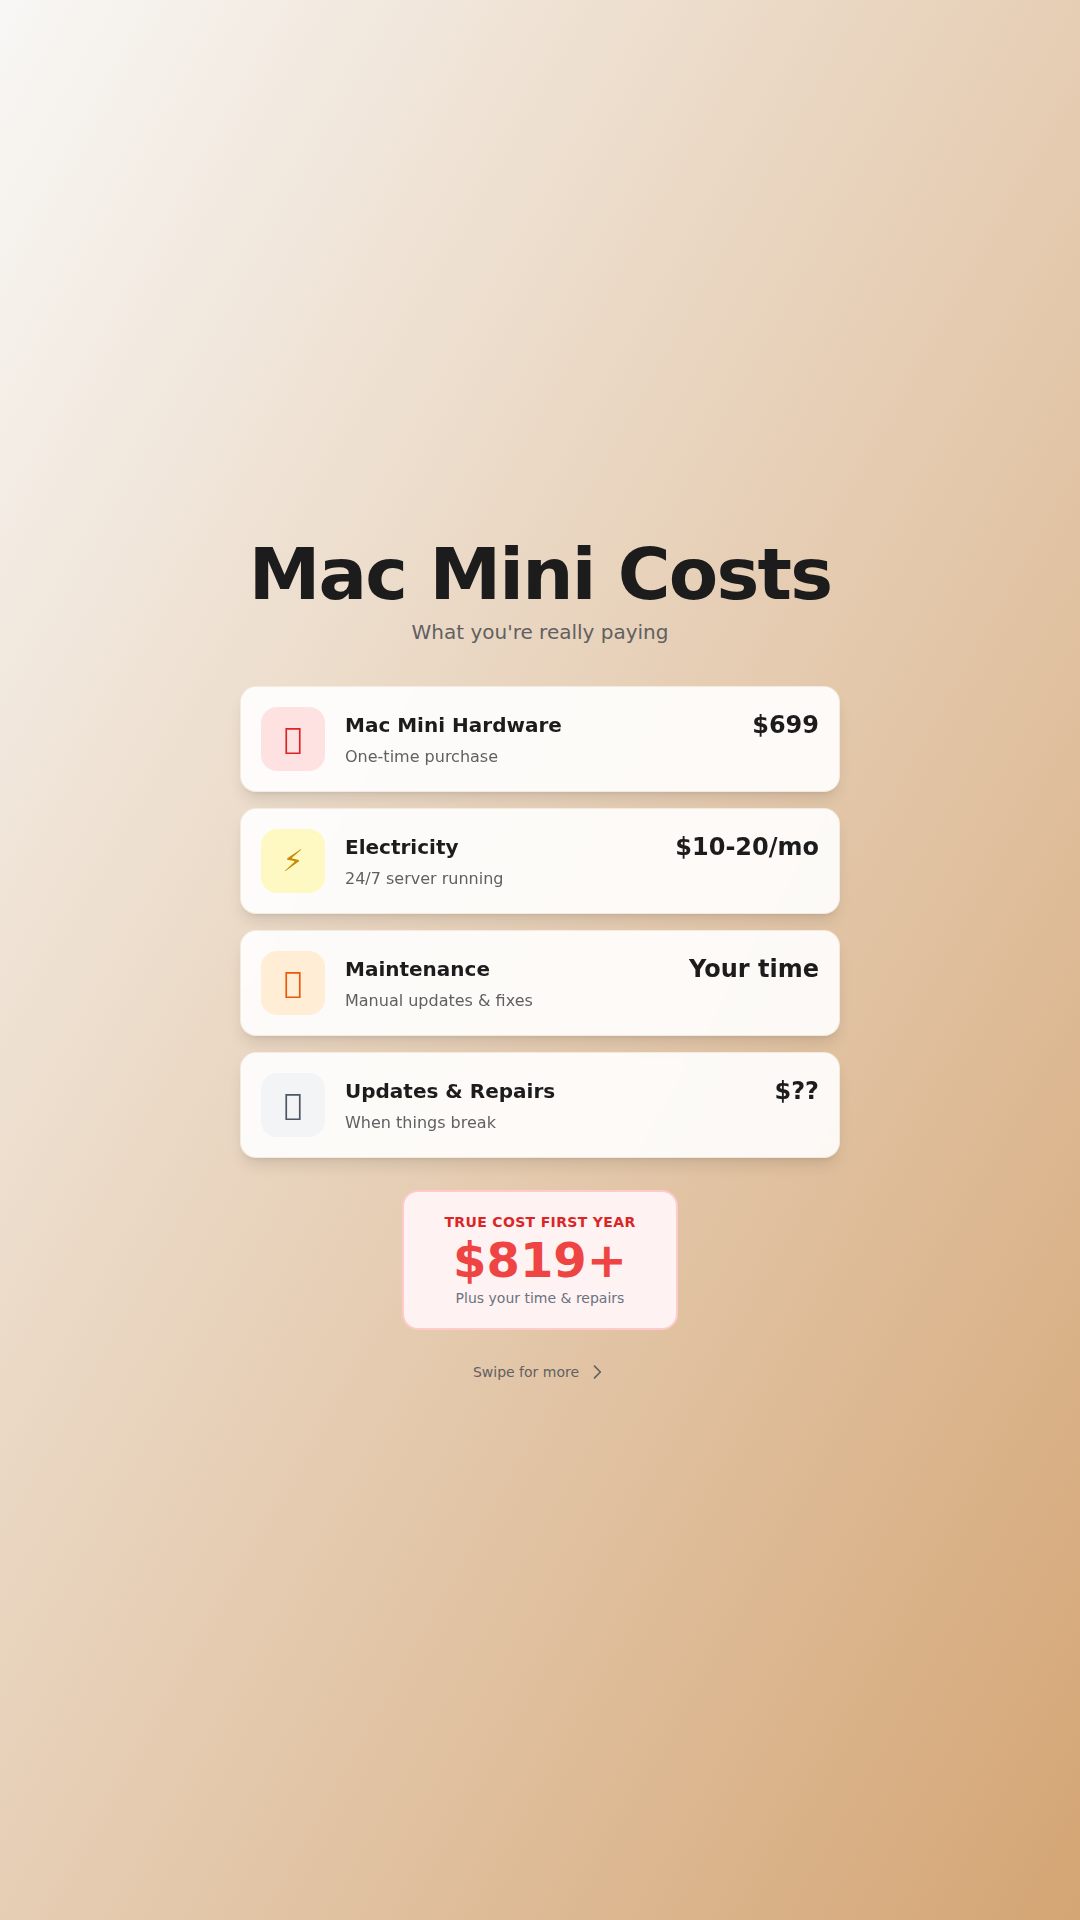
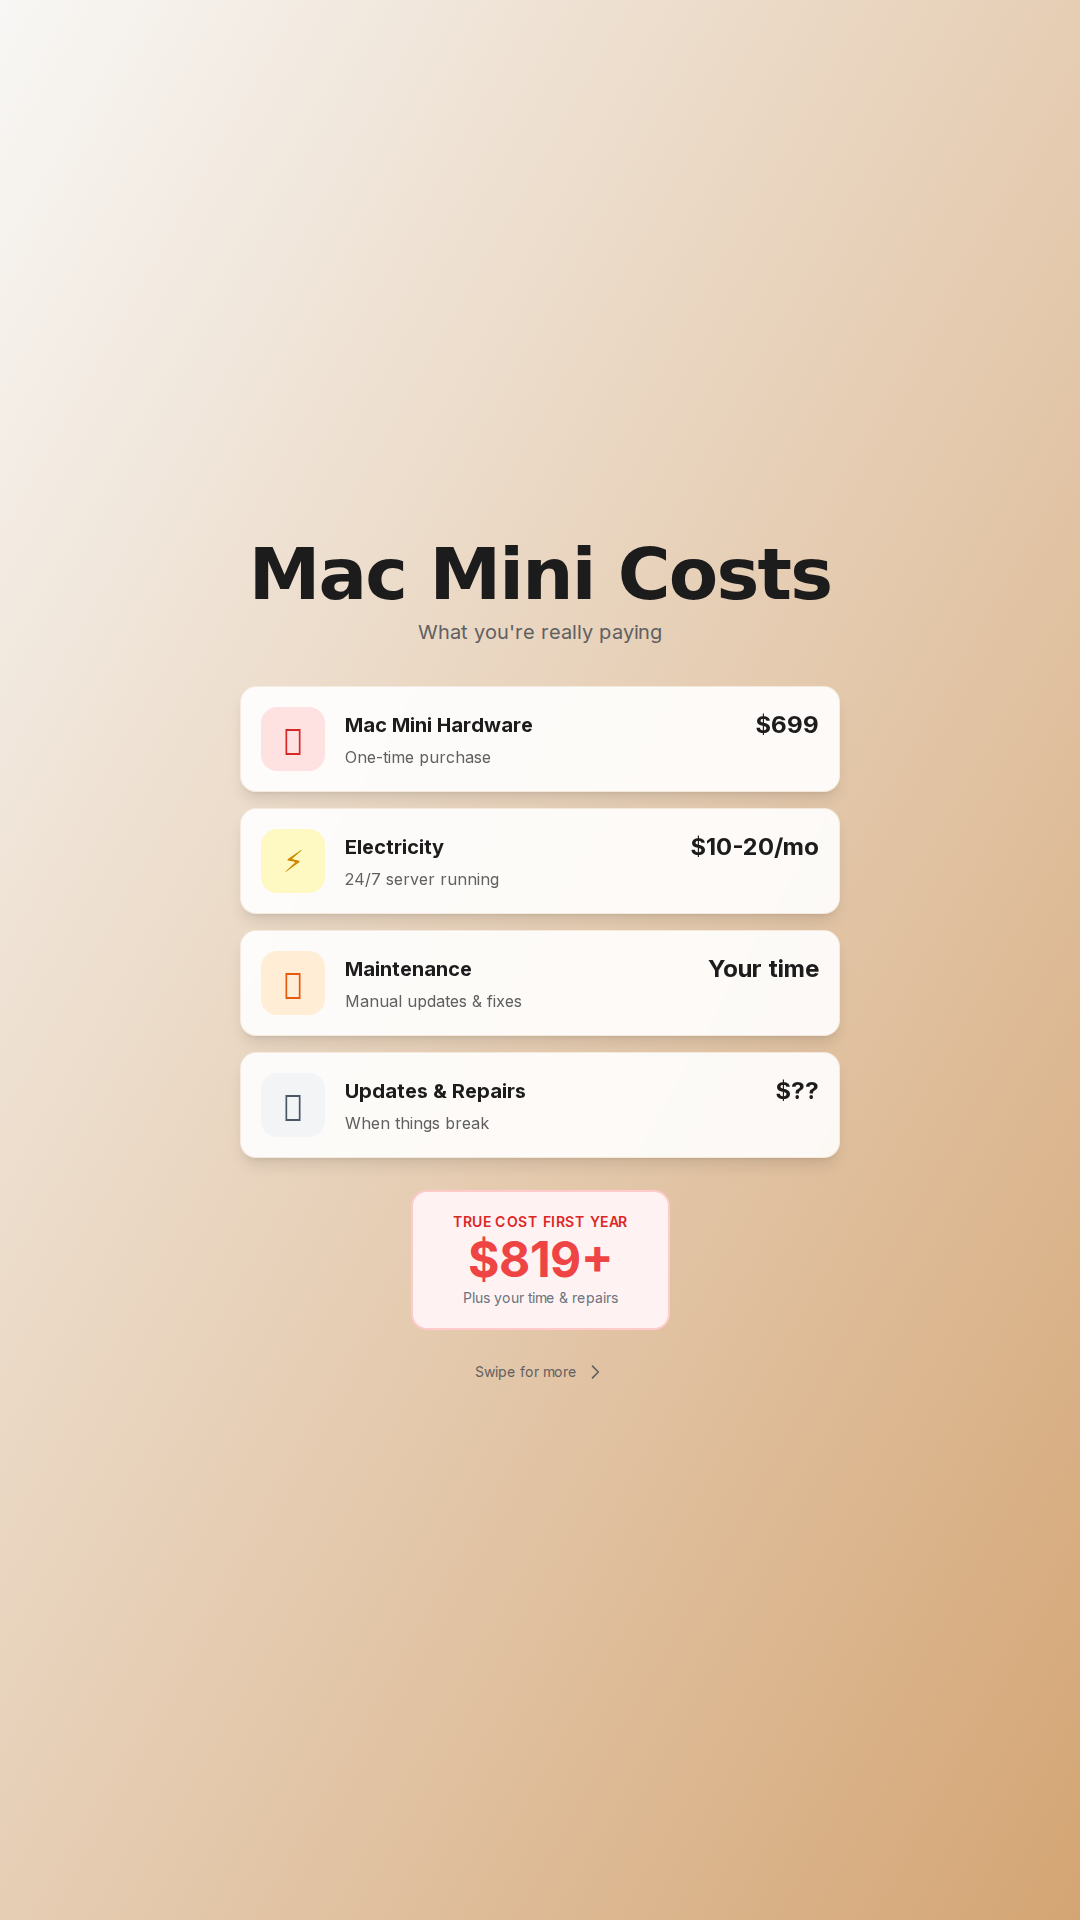
Update Post 2 Slides 1 & 2 with Inter font
- Added Inter font to post2-slide-01.js (Cover)
- Added Inter font to post2-slide-02-list.js (Cost Breakdown)
- All Post 2 slides now use Inter font matching InstantClaw hosting site
- Regenerated screenshots with updated font

diff --git a/pages/post2-slide-01.js b/pages/post2-slide-01.js
@@ -1,8 +1,11 @@
 import React from 'react';
+import { Inter } from 'next/font/google';
+
+const inter = Inter({ subsets: ['latin'], display: 'swap' });
 
 const Post2Slide01Cover = () => {
   return (
-    <div className="min-h-screen w-full flex flex-col items-center justify-center bg-gradient-to-br from-[#F8F7F5] to-[#D4A574] p-8 font-sans antialiased">
+    <div className={`${inter.className} min-h-screen w-full flex flex-col items-center justify-center bg-gradient-to-br from-[#F8F7F5] to-[#D4A574] p-8 font-sans antialiased`}>
       {/* Title */}
       <div className="text-center mb-6">
         <h1 className="font-sans text-5xl md:text-6xl font-bold tracking-tight text-[#1D1C1D] mb-3">
@@ -16,11 +19,9 @@ const Post2Slide01Cover = () => {
         {/* Mac Mini Card */}
         <div className="flex-1 bg-white/80 backdrop-blur-sm rounded-2xl p-8 border-2 border-red-200 shadow-lg">
           <div className="flex items-center gap-3 mb-6">
-            <div className="w-12 h-12 rounded-xl bg-gray-100 flex items-center justify-center">
-              <svg className="w-7 h-7 text-gray-600" viewBox="0 0 24 24" fill="currentColor">
-                <path d="M18.71 19.5c-.83 1.24-1.71 2.45-3.05 2.47-1.34.03-1.77-.79-3.29-.79-1.53 0-2 .77-3.27.82-1.31.05-2.3-1.32-3.14-2.53C4.25 17 2.94 12.45 4.7 9.39c.87-1.52 2.43-2.48 4.12-2.51 1.28-.02 2.5.87 3.29.87.78 0 2.26-1.07 3.81-.91.65.03 2.47.26 3.64 1.98-.09.06-2.17 1.28-2.15 3.81.03 3.02 2.65 4.03 2.68 4.04-.03.07-.42 1.44-1.38 2.83M13 3.5c.73-.83 1.21-1.96 1.08-3.11-1.05.05-2.31.72-3.06 1.64-.68.84-1.27 2.18-1.11 3.23 1.18.09 2.38-.71 3.09-1.76"/>
-              </svg>
-            </div>
+            <svg className="w-10 h-10 text-gray-600" viewBox="0 0 24 24" fill="currentColor">
+              <path d="M18.71 19.5c-.83 1.24-1.71 2.45-3.05 2.47-1.34.03-1.77-.79-3.29-.79-1.53 0-2 .77-3.27.82-1.31.05-2.3-1.32-3.14-2.53C4.25 17 2.94 12.45 4.7 9.39c.87-1.52 2.43-2.48 4.12-2.51 1.28-.02 2.5.87 3.29.87.78 0 2.26-1.07 3.81-.91.65.03 2.47.26 3.64 1.98-.09.06-2.17 1.28-2.15 3.81.03 3.02 2.65 4.03 2.68 4.04-.03.07-.42 1.44-1.38 2.83M13 3.5c.73-.83 1.21-1.96 1.08-3.11-1.05.05-2.31.72-3.06 1.64-.68.84-1.27 2.18-1.11 3.23 1.18.09 2.38-.71 3.09-1.76"/>
+            </svg>
             <h2 className="text-2xl font-bold text-[#1D1C1D]">Mac Mini</h2>
           </div>
           
@@ -63,7 +64,7 @@ const Post2Slide01Cover = () => {
             <img 
               src="/instantclaw-logo.png" 
               alt="InstantClaw" 
-              className="h-12 w-auto"
+              className="h-10 w-auto"
               onError={(e) => { e.target.style.display = 'none'; }}
             />
             <h2 className="text-2xl font-bold text-[#1D1C1D]">InstantClaw</h2>

diff --git a/pages/post2-slide-02-list.js b/pages/post2-slide-02-list.js
@@ -1,4 +1,7 @@
 import React from 'react';
+import { Inter } from 'next/font/google';
+
+const inter = Inter({ subsets: ['latin'], display: 'swap' });
 
 // Option D: Simple Itemized List with Icons
 const Post2Slide02List = () => {
@@ -34,7 +37,7 @@ const Post2Slide02List = () => {
   ];
 
   return (
-    <div className="min-h-screen w-full flex flex-col items-center justify-center bg-gradient-to-br from-[#F8F7F5] to-[#D4A574] p-8 font-sans antialiased">
+    <div className={`${inter.className} min-h-screen w-full flex flex-col items-center justify-center bg-gradient-to-br from-[#F8F7F5] to-[#D4A574] p-8 font-sans antialiased`}>
       {/* Title */}
       <div className="text-center mb-10">
         <h1 className="font-sans text-5xl md:text-6xl lg:text-7xl font-bold tracking-tight text-[#1D1C1D] mb-2">

diff --git a/pages/index.js b/pages/index.js
@@ -1,4 +1,4 @@
 import React from 'react';
-import Post2Slide03Progress from './post2-slide-03-progress';
+import Post2Slide02List from './post2-slide-02-list';
 
-export default Post2Slide03Progress;
+export default Post2Slide02List;
